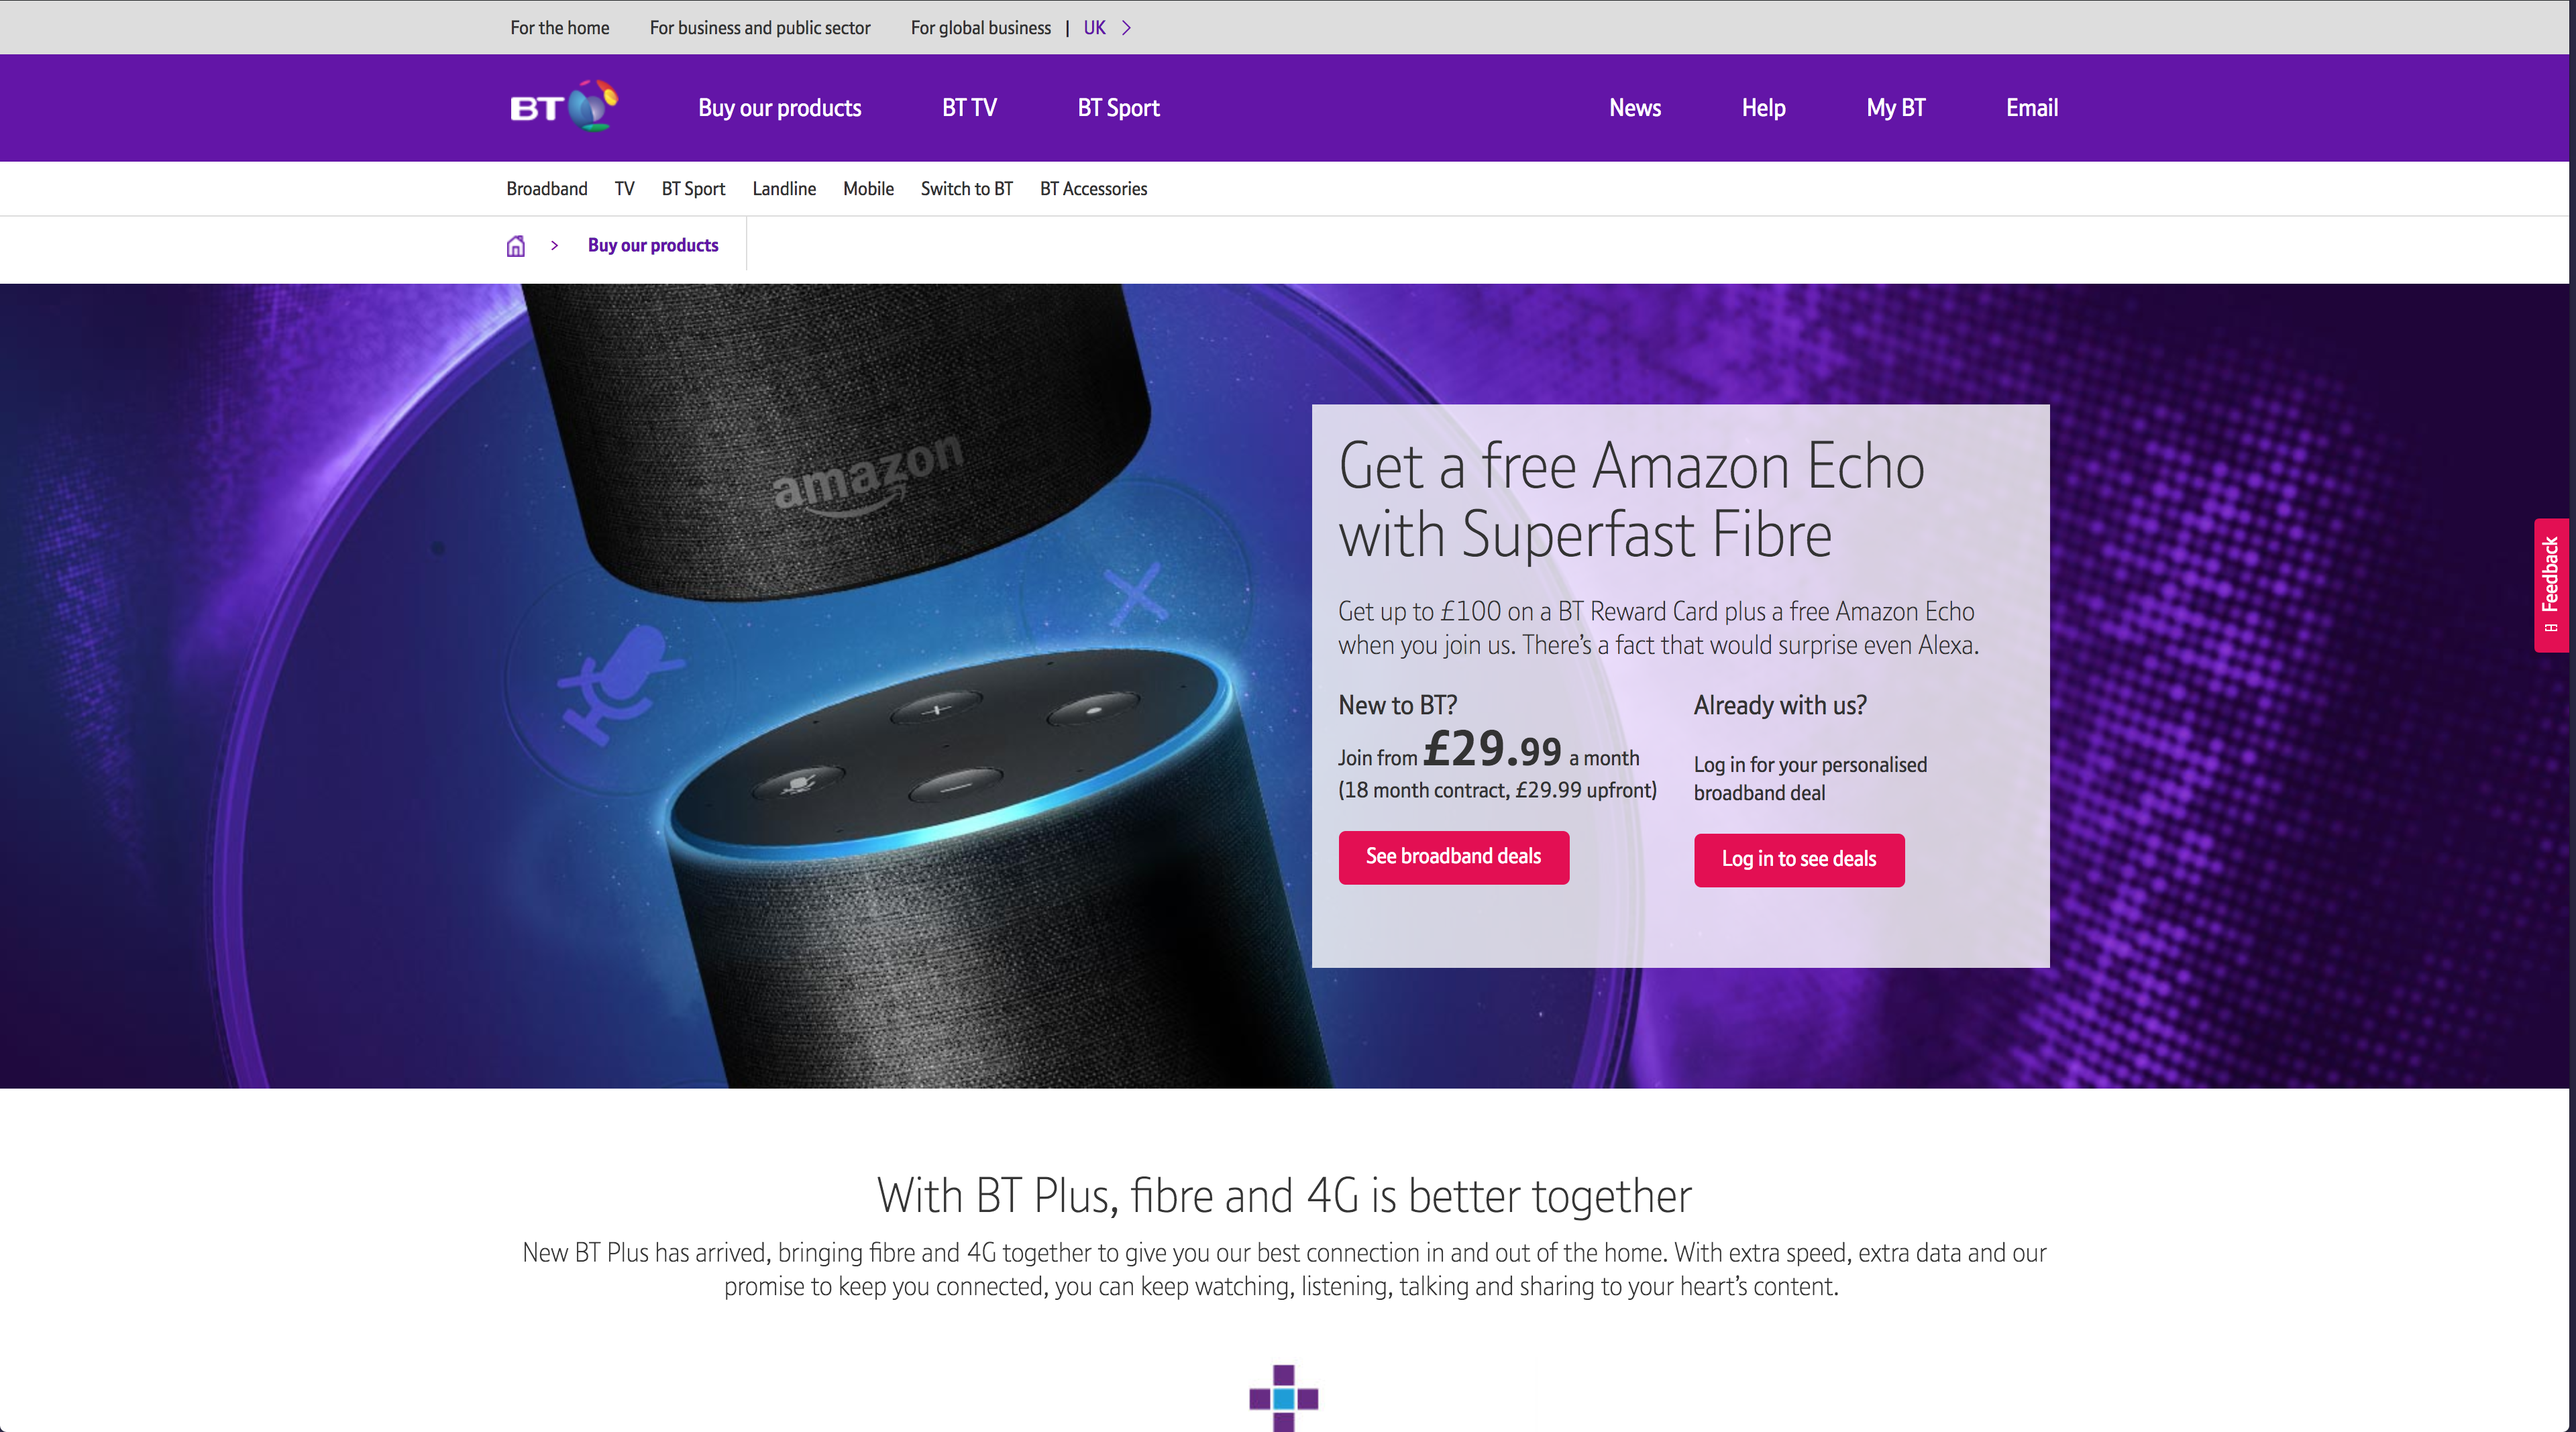
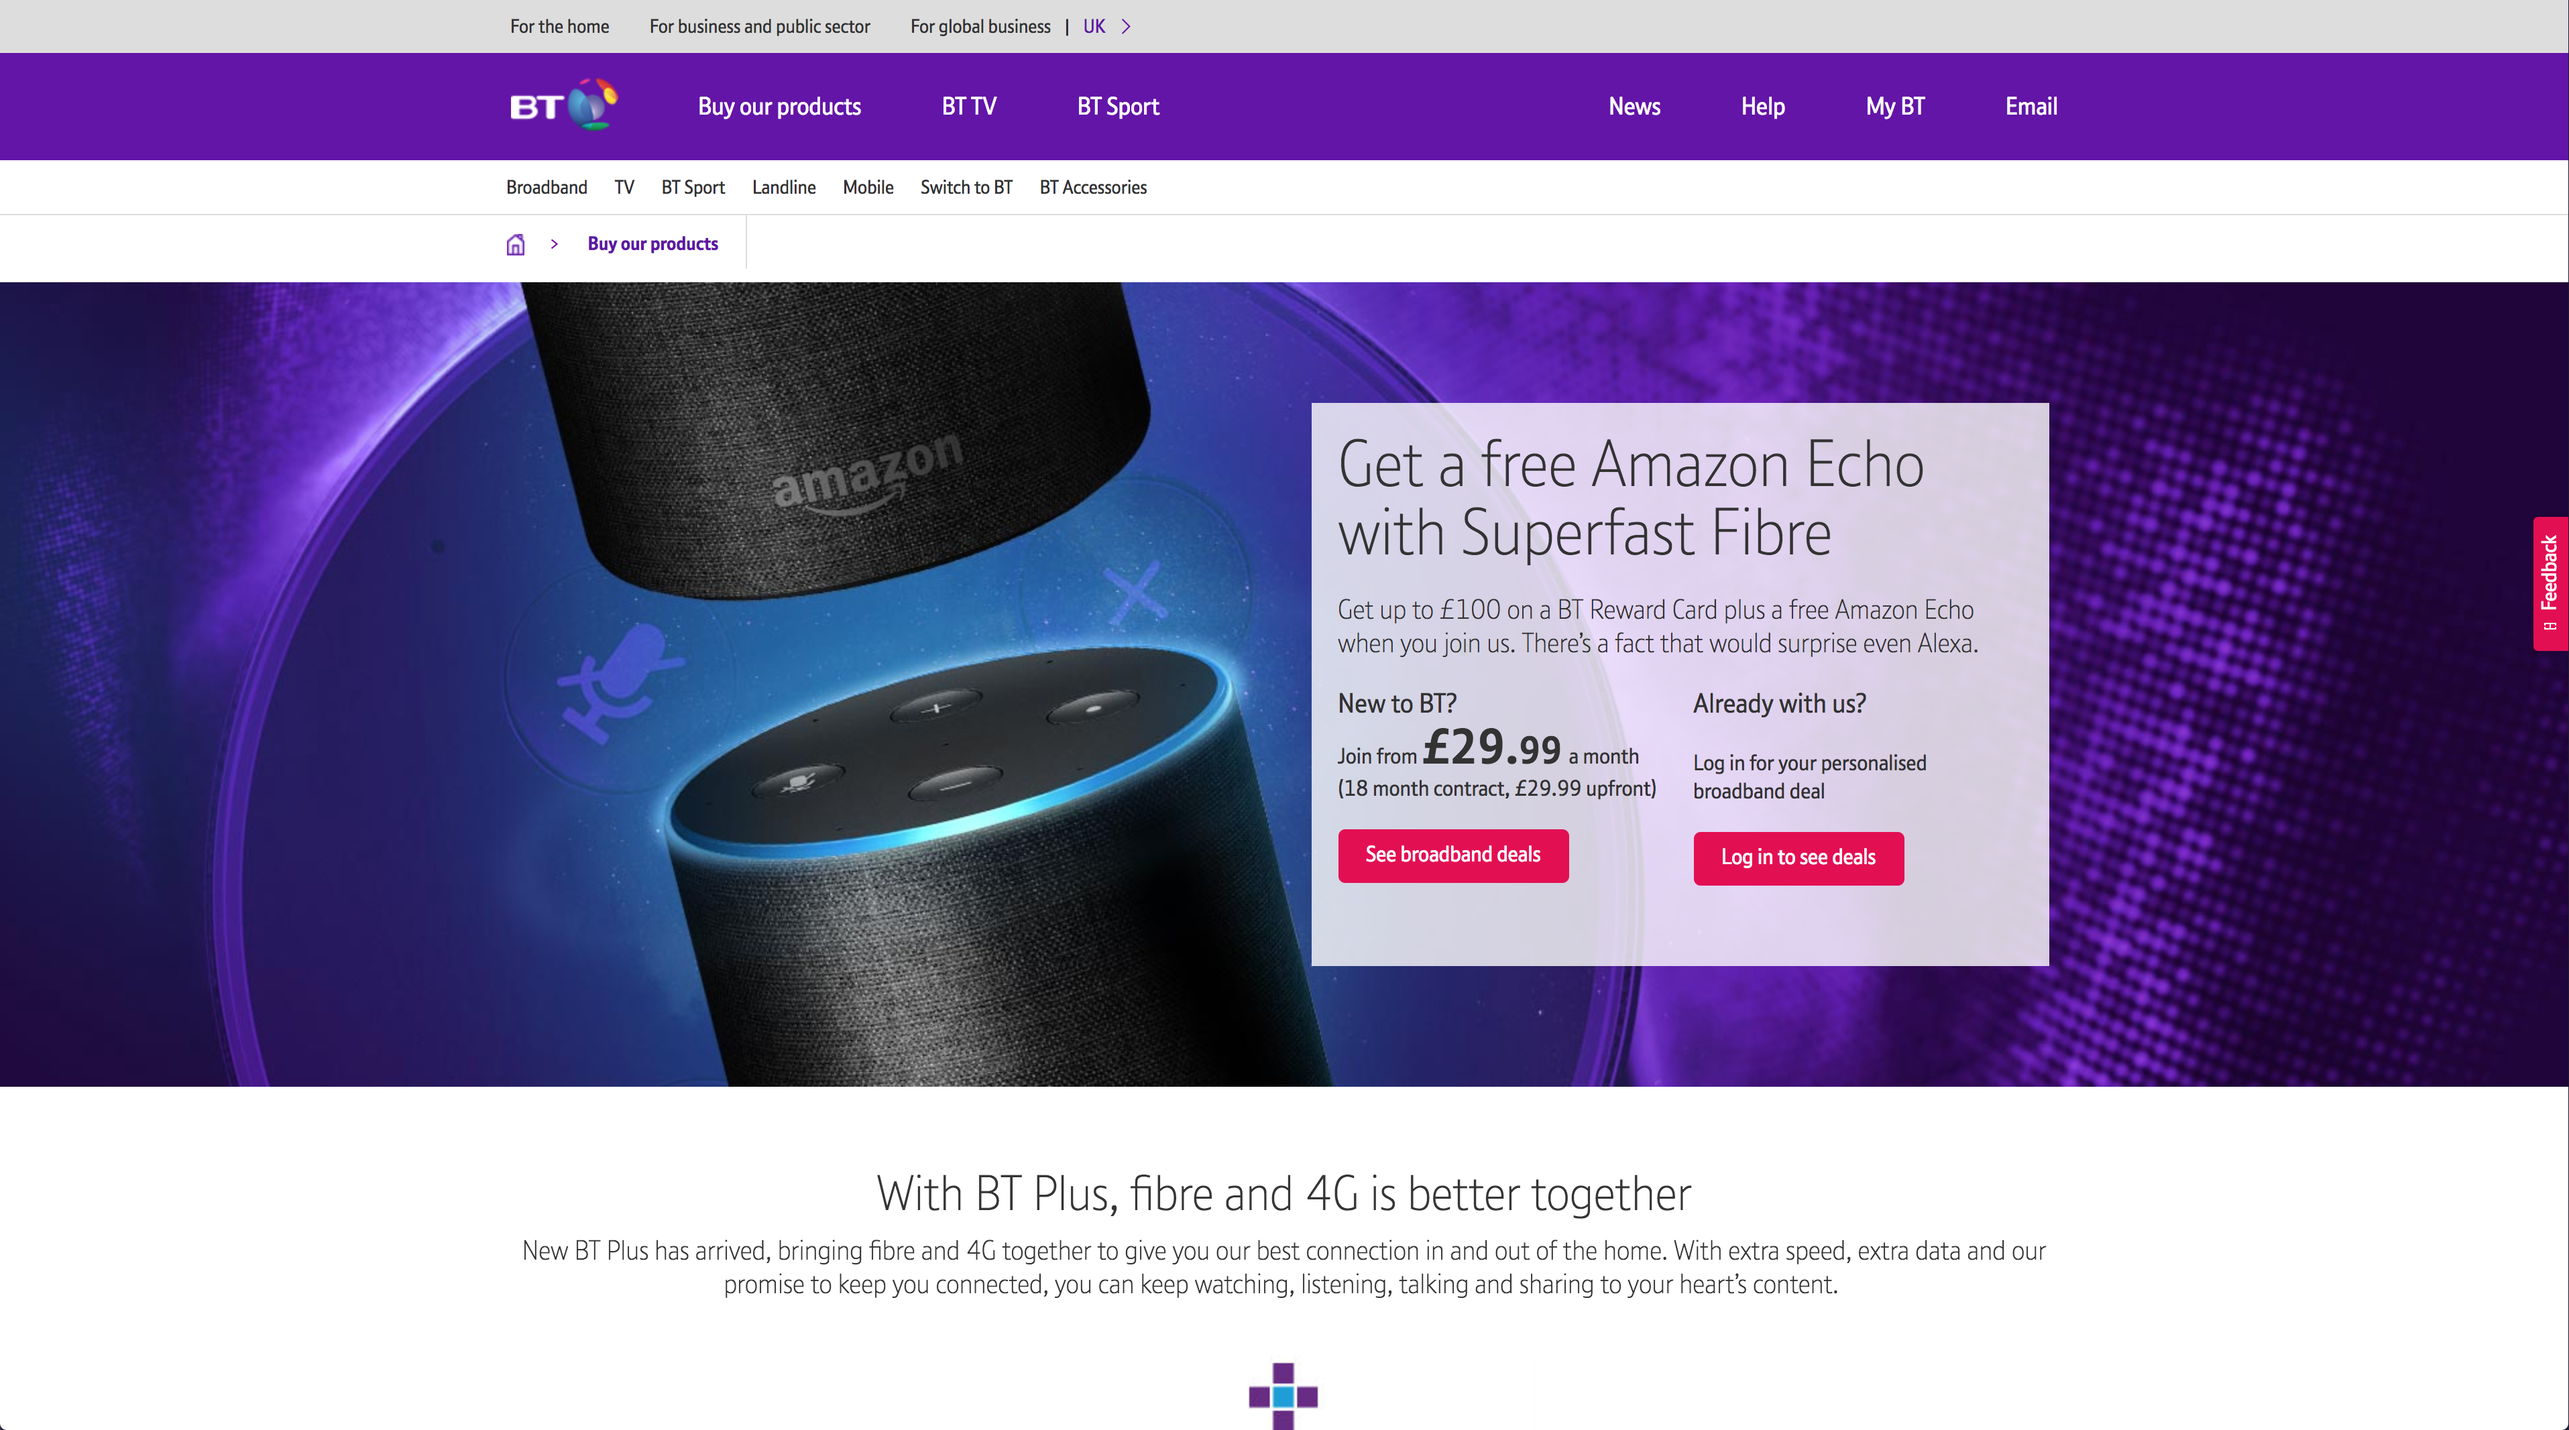
style work detail right

diff --git a/components/atoms/DetailRight/DetailRight.jsx b/components/atoms/DetailRight/DetailRight.jsx
@@ -5,19 +5,22 @@ import Image from 'next/image';
 import Wrapper from '@components/atoms/Wrapper';
 
 const DetailRight = ({ logo, paragraph, sideImage }) => (
-  <div className="bg-warmGray-100 lg:pt-20 lg:pb-5">
-    <div className="bg-none lg:bg-bt-screenshot lg:bg-contain lg:bg-no-repeat lg:bg-origin-padding lg:bg-right">
-      <Wrapper>
-        <div className="grid grid-cols-1 lg:grid-cols-2 lg:pb-16 xl:pb-36 2xl:pb-52">
-          <div className="py-5 px-4">
-            <div className="text-center mb-5">{logo}</div>
-            <p className="text-lg text-center lg:text-left">{paragraph}</p>
-          </div>
+  <div className="bg-warmGray-100 lg:pt-20 lg:pb-5 lg:relative lg:overflow-hidden">
+    <Wrapper>
+      <div className="grid grid-cols-1 lg:grid-cols-2 lg:pb-16 xl:pb-36 2xl:pb-52">
+        <div className="py-5 px-4">
+          <div className="text-center mb-5">{logo}</div>
+          <p className="text-lg text-center lg:text-left">{paragraph}</p>
         </div>
-        <div className="lg:hidden">
-          <Image src={sideImage} />
+      </div>
+      <div className="text-center lg:hidden">
+        <div className="inline-block w-full md:w-2/3">
+          <Image src={sideImage} className="md:rounded-lg" />
         </div>
-      </Wrapper>
+      </div>
+    </Wrapper>
+    <div className="hidden lg:block lg:w-1/2 lg:absolute lg:top-20 lg:-right-20">
+      <Image src={sideImage} className="rounded-lg" />
     </div>
   </div>
 );

diff --git a/components/atoms/Wrapper/Wrapper.jsx b/components/atoms/Wrapper/Wrapper.jsx
@@ -4,7 +4,7 @@ import PropTypes from 'prop-types';
 const Wrapper = ({ children }) => <div className="relative max-w-screen-lg mx-auto">{children}</div>;
 
 Wrapper.propTypes = {
-  children: PropTypes.element.isRequired,
+  children: PropTypes.oneOfType([PropTypes.arrayOf(PropTypes.node), PropTypes.node]).isRequired,
 };
 
 export default Wrapper;

diff --git a/tailwind.config.js b/tailwind.config.js
@@ -13,13 +13,6 @@ module.exports = {
         teal: colors.teal,
         warmGray: colors.warmGray,
       },
-      screens: {
-        '3xl': '1600px',
-        '4xl': '1921px',
-      },
-      backgroundImage: {
-        'bt-screenshot': 'url("/images/bt-screenshot.png")',
-      },
       zIndex: {
         '-10': '-10',
       },
